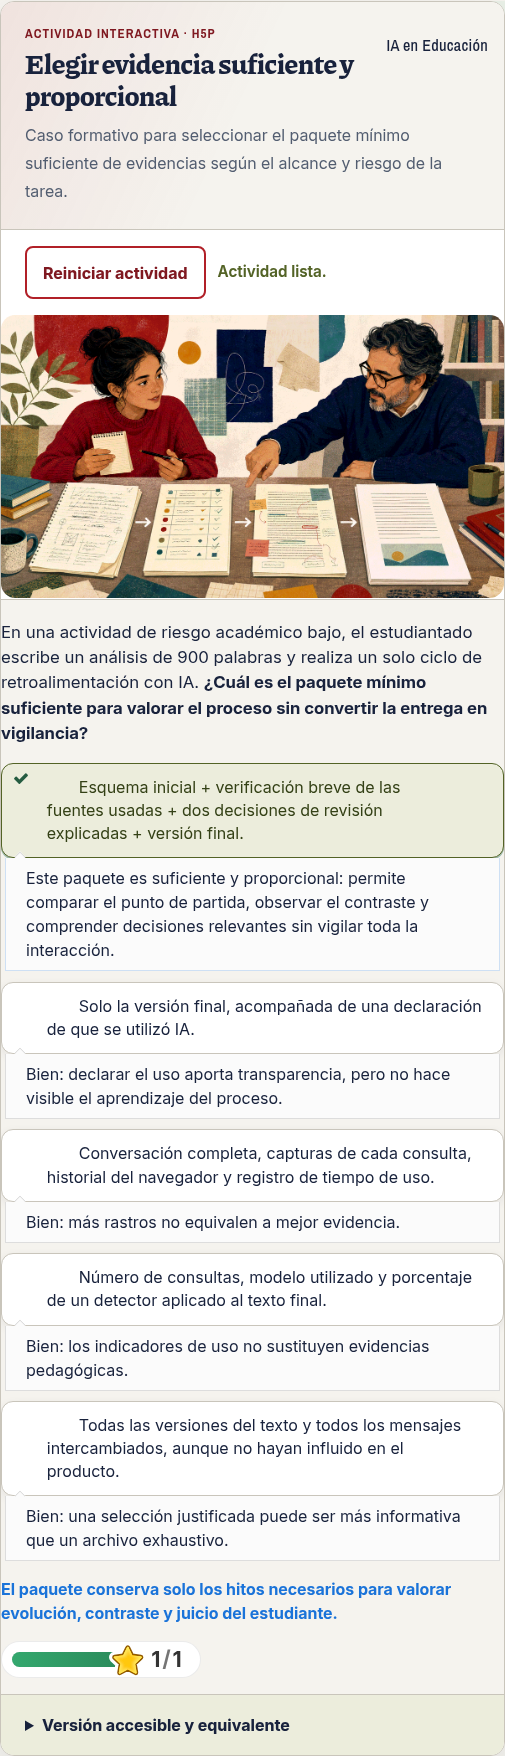
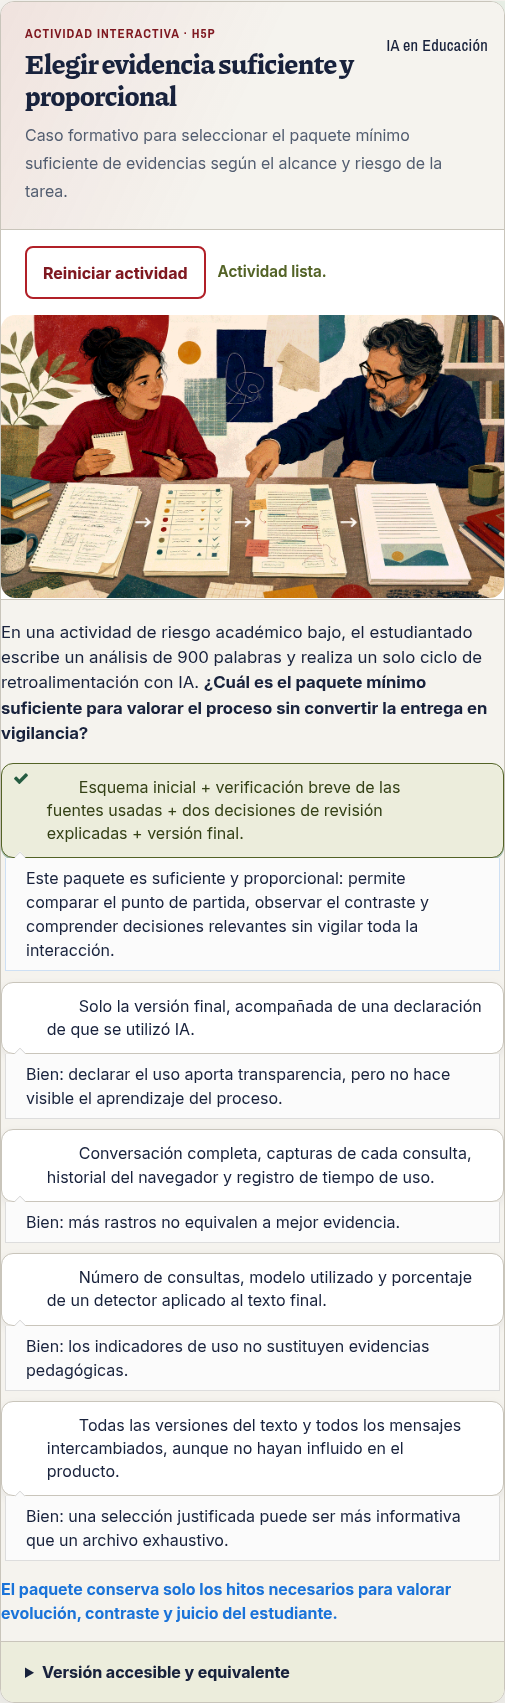
fix(h5p): retirar scorebar de actividades formativas

diff --git a/h5p/runtime/embed.js b/h5p/runtime/embed.js
@@ -135,6 +135,13 @@
     const local = (path) => new URL(path, window.location.href).href;
     const customCss = [local("./themes/udg-c.css")];
     if (entry.adapter) customCss.push(local(`./adapters/${entry.adapter}`));
+    if (entry.presentationAdapter?.css) {
+      customCss.push(local(`./adapters/${entry.presentationAdapter.css}`));
+    }
+    const customJs = [];
+    if (entry.presentationAdapter?.js) {
+      customJs.push(local(`./adapters/${entry.presentationAdapter.js}`));
+    }
 
     const options = {
       id: instance,
@@ -144,6 +151,7 @@
       frameJs: local("./player/frame.bundle.js"),
       frameCss: local("./player/styles/h5p.css"),
       customCss,
+      customJs,
       frame: false,
       copyright: false,
       export: false,

diff --git a/static/h5p/udgia/v1/embed.js b/static/h5p/udgia/v1/embed.js
@@ -135,6 +135,13 @@
     const local = (path) => new URL(path, window.location.href).href;
     const customCss = [local("./themes/udg-c.css")];
     if (entry.adapter) customCss.push(local(`./adapters/${entry.adapter}`));
+    if (entry.presentationAdapter?.css) {
+      customCss.push(local(`./adapters/${entry.presentationAdapter.css}`));
+    }
+    const customJs = [];
+    if (entry.presentationAdapter?.js) {
+      customJs.push(local(`./adapters/${entry.presentationAdapter.js}`));
+    }
 
     const options = {
       id: instance,
@@ -144,6 +151,7 @@
       frameJs: local("./player/frame.bundle.js"),
       frameCss: local("./player/styles/h5p.css"),
       customCss,
+      customJs,
       frame: false,
       copyright: false,
       export: false,

diff --git a/h5p/runtime/adapters/formative-no-score.js b/h5p/runtime/adapters/formative-no-score.js
@@ -1,0 +1,23 @@
+(() => {
+  "use strict";
+
+  const scrubScorebar = () => {
+    for (const scorebar of document.querySelectorAll(
+      ".h5p-question-scorebar, .h5p-question-scorebar-container"
+    )) {
+      scorebar.remove();
+    }
+    for (const buttons of document.querySelectorAll(".h5p-question-buttons.has-scorebar")) {
+      buttons.classList.remove("has-scorebar");
+    }
+  };
+
+  const observer = new MutationObserver(scrubScorebar);
+  observer.observe(document.documentElement, {
+    attributes: true,
+    attributeFilter: ["class"],
+    childList: true,
+    subtree: true
+  });
+  scrubScorebar();
+})();

diff --git a/static/h5p/udgia/v1/adapters/formative-no-score.js b/static/h5p/udgia/v1/adapters/formative-no-score.js
@@ -1,0 +1,23 @@
+(() => {
+  "use strict";
+
+  const scrubScorebar = () => {
+    for (const scorebar of document.querySelectorAll(
+      ".h5p-question-scorebar, .h5p-question-scorebar-container"
+    )) {
+      scorebar.remove();
+    }
+    for (const buttons of document.querySelectorAll(".h5p-question-buttons.has-scorebar")) {
+      buttons.classList.remove("has-scorebar");
+    }
+  };
+
+  const observer = new MutationObserver(scrubScorebar);
+  observer.observe(document.documentElement, {
+    attributes: true,
+    attributeFilter: ["class"],
+    childList: true,
+    subtree: true
+  });
+  scrubScorebar();
+})();

diff --git a/h5p/runtime/adapters/formative-no-score.css b/h5p/runtime/adapters/formative-no-score.css
@@ -1,0 +1,14 @@
+/*
+ * UDGPlus · política formativa sin puntuación visible.
+ * Este adaptador solo se carga en contenidos que lo declaran en el catálogo.
+ * El script compañero retira el nodo; estas reglas evitan cualquier destello
+ * antes de que el observador procese una mutación del núcleo H5P.
+ */
+.h5p-question-scorebar,
+.h5p-question-scorebar-container {
+  display: none !important;
+}
+
+.h5p-question-buttons.has-scorebar {
+  margin-left: 0 !important;
+}

diff --git a/static/h5p/udgia/v1/adapters/formative-no-score.css b/static/h5p/udgia/v1/adapters/formative-no-score.css
@@ -1,0 +1,14 @@
+/*
+ * UDGPlus · política formativa sin puntuación visible.
+ * Este adaptador solo se carga en contenidos que lo declaran en el catálogo.
+ * El script compañero retira el nodo; estas reglas evitan cualquier destello
+ * antes de que el observador procese una mutación del núcleo H5P.
+ */
+.h5p-question-scorebar,
+.h5p-question-scorebar-container {
+  display: none !important;
+}
+
+.h5p-question-buttons.has-scorebar {
+  margin-left: 0 !important;
+}
